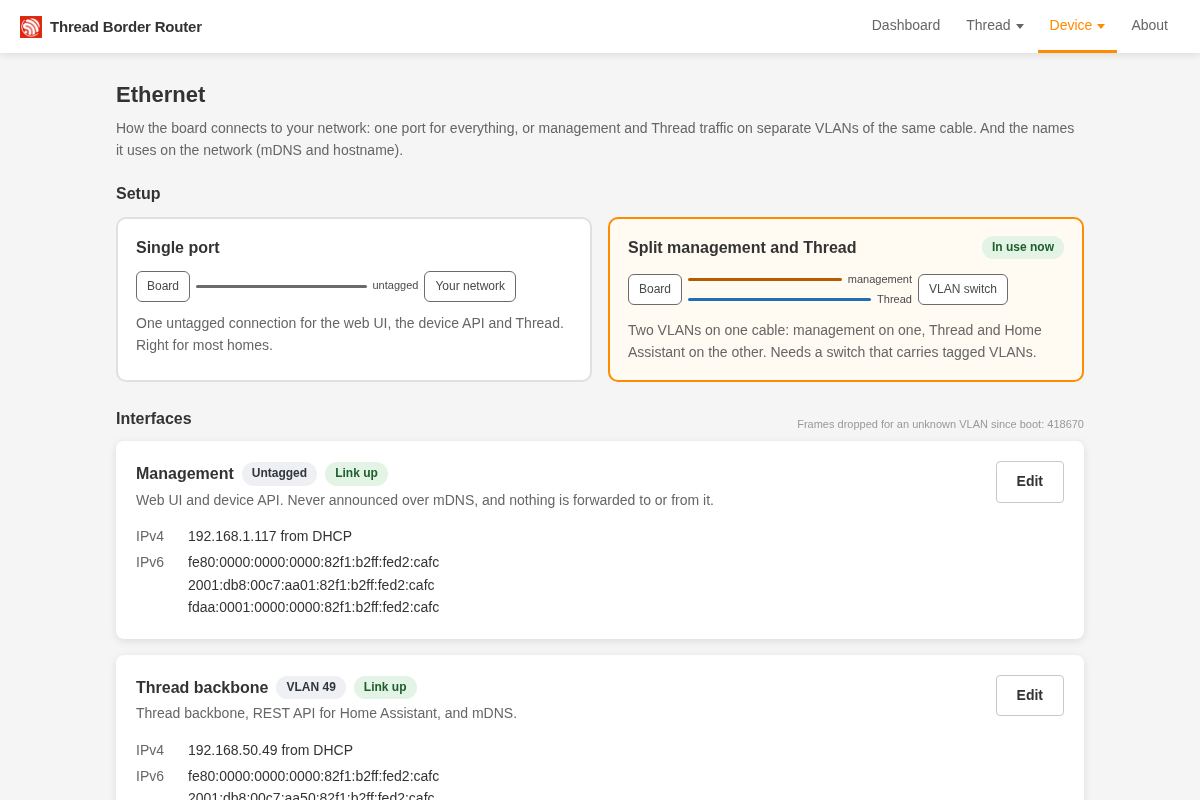
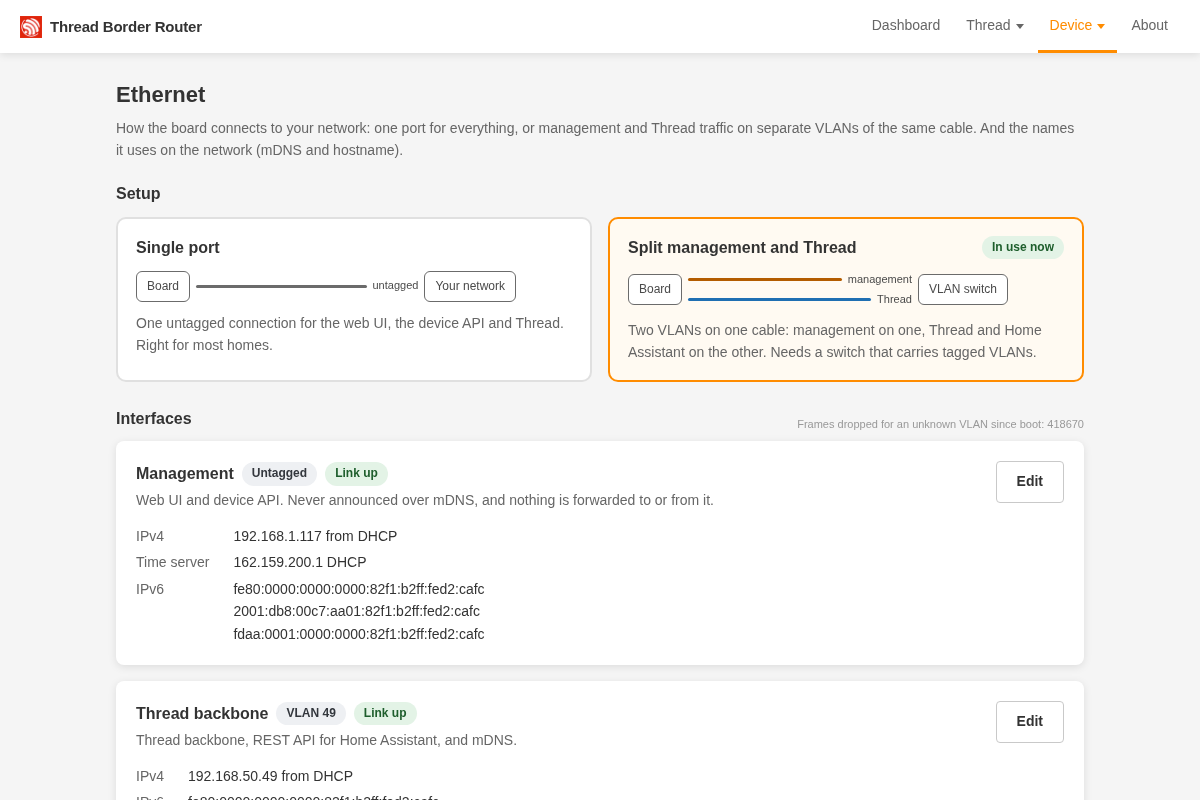
docs(timesync): Time section screenshot and hardware results
- ethernet-time.png from the docs preview (board's /device/time answer
  recorded), Ethernet page retaken with the Time server row
- hardware pass results in development.md
- fix(web): space between a server address and its "answered" chip

Changed region(s): [[0.1233, 0.8438, 0.4317, 1.0], [0.1233, 0.6562, 0.4008, 0.8125], [0.8325, 0.8438, 0.8942, 0.9062]]

diff --git a/p4/components/esp_ot_br_server/frontend/static/time.js b/p4/components/esp_ot_br_server/frontend/static/time.js
@@ -157,8 +157,10 @@ function renderServers() {
     if (i)
       box.appendChild(el('br'));
     box.appendChild(el('span', s.address, 'mono'));
-    if (s.answered)
+    if (s.answered) {
+      box.appendChild(env.document.createTextNode(' '));
       box.appendChild(el('span', 'answered', 'chip chip-ok'));
+    }
   });
 }
 

diff --git a/tools/tests/test_time_page.py b/tools/tests/test_time_page.py
@@ -165,6 +165,15 @@ class TestTimePage:
             True,
         ]
 
+    def test_answered_chip_is_spaced_from_the_address(self):
+        # On a server that answered: a space between its address and the "answered" chip.
+        r = scenario(
+            page("time", routes())
+            + START
+            + "return t.el('tm-servers').children.map((c) => c.textContent);"
+        )
+        assert r[:3] == ["10.0.10.1", " ", "answered"]
+
     def test_clock_not_set_shows_not_set(self):
         # On now null: board time "Not set" and the Clock not set chip.
         r = scenario(

diff --git a/tools/docs_screenshots.py b/tools/docs_screenshots.py
@@ -77,6 +77,7 @@ SHOTS = {
     "diagnostics.png": page_shot("/diagnostics.html"),
     "ethernet.png": page_shot("/ethernet.html", 900),
     "ethernet-trel.png": element_shot("/ethernet.html", "#trel"),
+    "ethernet-time.png": element_shot("/ethernet.html", "#timeSection"),
 }
 
 

diff --git a/docs/development.md b/docs/development.md
@@ -154,18 +154,27 @@ Checks beyond the automated tests, and what has not been run on hardware yet. Th
 - The CH34x status-packet decoding (`uart_errors`) follows the ch34x driver's own defines
   (`CH34X_UART_STATE_TRANSIENT_MASK`, byte 0) and is not confirmed against a datasheet.
 
-### Time sync (not yet run on hardware)
+### Time sync
 
-Spec `docs/superpowers/specs/2026-11-10-time-sync-design.md` section 8. One batched pass:
+Spec `docs/superpowers/specs/2026-11-10-time-sync-design.md` section 8. Run on 2026-11-10 with `20261110T025922Z-06f7cb5`
+in split mode (management untagged, Thread backbone on VLAN 49):
 
-1. Power-up on the home network: the clock is set within seconds; `source` matches what the router hands out.
-2. Zigbee `started` shows a real date although the stack started before the first sync.
-3. Soft restart: the clock stays valid; Last synced reads "Before the last restart" until the next answer.
+1. Power-up on the home network: the clock is set within seconds; `source` matches what the router hands out. **Passed**:
+   synced about 20 s after the web server came up, to the second; `pool.ntp.org` with no server in the lease, then
+   `source: dhcp`, `dhcp_iface: mgmt` once the management DHCP named one. No "unreachable" right after a sync.
+2. Zigbee `started` shows a real date although the stack started before the first sync. **Not run** (needs Zigbee
+   mode).
+3. Soft restart: the clock stays valid; Last synced reads "Before the last restart" until the next answer. **Passed**
+   (with sync off).
 4. A custom server that does not exist: **Server not answering** after a minute, the clock keeps running. Two quick
-   saves in a row: the last one wins.
-5. Off: no NTP packets on the wire (capture on the switch).
+   saves in a row: the last one wins. **Passed**; a bad server gets a 400.
+5. Off: no NTP packets on the wire (capture on the switch). **Passed at API level only**: a capture on another VLAN saw
+   nothing either way, so the wire proof is still open.
 6. Split mode with servers on both leases: which lease wins, and whether `dhcp_iface` names it. A DHCP renewal does not
-   restart the sync (`synced` stays).
+   restart the sync (`synced` stays). **Not run.**
+
+The timesync task's stack peaked at 1260 of 3072 bytes. Known: the reply to a `PUT` shows the old `servers` and
+`source` until the task applies the change (the page corrects it on its next poll).
 
 ### Radios
 

diff --git a/docs/networking.md b/docs/networking.md
@@ -98,6 +98,8 @@ the web UI shows times in your browser's time zone.
 The **Time** section at the end of the Ethernet page shows the board time, whether it is synced, when it last synced,
 and which server it asks:
 
+<img src="images/ethernet-time.png" width="640" alt="The Time section of the Ethernet page with a Synced chip: board time, last synced 2 minutes ago, server 162.159.200.1 with an answered chip, from your router (DHCP on Management); Set the clock from the network ticked, Automatic picked, and the Discard and Save buttons">
+
 | Choice | Server used |
 | --- | --- |
 | **Automatic** (default) | the NTP server your router hands out with the DHCP lease (up to two); if it hands out none, `pool.ntp.org` |
